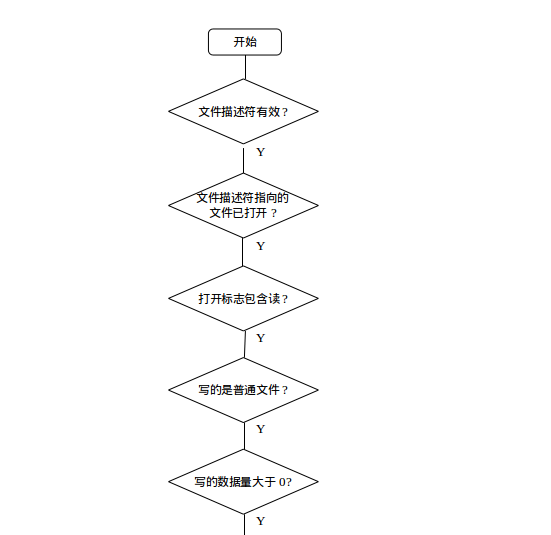
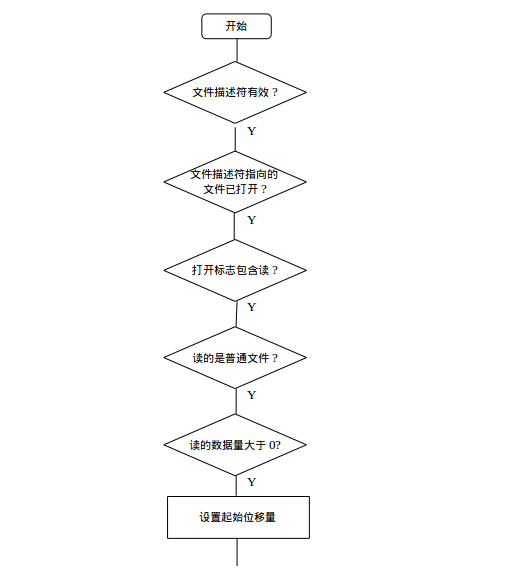
更新文档.
更新的地方包括:
    文件系统已经开始支持空洞文件, 更新有关 read() 与 write() 内容;
    修正 read() 文档的两个错误;

Changed region(s): [[0.2947, 0.0, 0.6189, 1.0], [0.5305, 0.0299, 0.5599, 0.0598]]

diff --git a/src/fs_based_on_fuse.tex b/src/fs_based_on_fuse.tex
@@ -2134,8 +2134,7 @@ struct ufs_file ufs_open_files[UFS_OPEN_MAX]; /* 打开文件表 */
   \item
     \texttt{-ENOSPC}: 磁盘空间不足;
   \item
-    \texttt{-EINVAL}: \texttt{buf} 为空, 或 \texttt{size} 小于等于 0, 或
-    \texttt{offset} 超过文件大小;
+    \texttt{-EINVAL}: \texttt{buf} 为空, 或 \texttt{size} 小于等于 0;
   \item
     \texttt{-EFBIG}: 文件过大;
   \end{itemize}
@@ -2149,8 +2148,6 @@ struct ufs_file ufs_open_files[UFS_OPEN_MAX]; /* 打开文件表 */
   \item
     若 \texttt{buf} 为空, 或 \texttt{size} 小于等于 0, 返回
     \texttt{-EINVAL};
-  \item
-    若 \texttt{offset} 大于等于文件大小, 返回 \texttt{-EINVAL};
   \item
     将文件的当前读写偏移量 \texttt{pos} 设置为 \texttt{offset},
     若打开文件时指定了 \texttt{UFS\_O\_APPEND}, 将 \texttt{pos}
@@ -2185,7 +2182,8 @@ struct ufs_file ufs_open_files[UFS_OPEN_MAX]; /* 打开文件表 */
 
   \includegraphics[width=15cm]{./images/./write_2.png}
   \end{itemize}
-  \subsubsection[\texttt{read}]{\texttt{int read(int fd, void *buf, size\_t size)}}
+  \subsubsection[\texttt{read}]{\texttt{int read(int fd, void *buf,
+  size\_t size, off\_t offset)}}
   \begin{itemize}
 \item
   功能: 读一个文件;
@@ -2199,6 +2197,8 @@ struct ufs_file ufs_open_files[UFS_OPEN_MAX]; /* 打开文件表 */
     \texttt{buf}: 数据缓冲区;
   \item
     \texttt{size}: 期望读到的字节数;
+  \item
+    \texttt{offset}: 读位置在文件中的偏移量;
   \end{itemize}
 \item
   返回值:
@@ -2226,7 +2226,7 @@ struct ufs_file ufs_open_files[UFS_OPEN_MAX]; /* 打开文件表 */
     若 \texttt{ufs\_open\_files{[}fd{]}.f\_inode} 引用的是一个目录文件,
     返回 \texttt{-EISDIR};
   \item
-    获取文件的当前读偏移量 \texttt{pos};
+      设置文件的当前读位置偏移量 \texttt{pos} 为 \texttt{offset}
   \item
     当未遇到文件末尾且未读满 \texttt{size} 个字节时, 循环;
   \item
